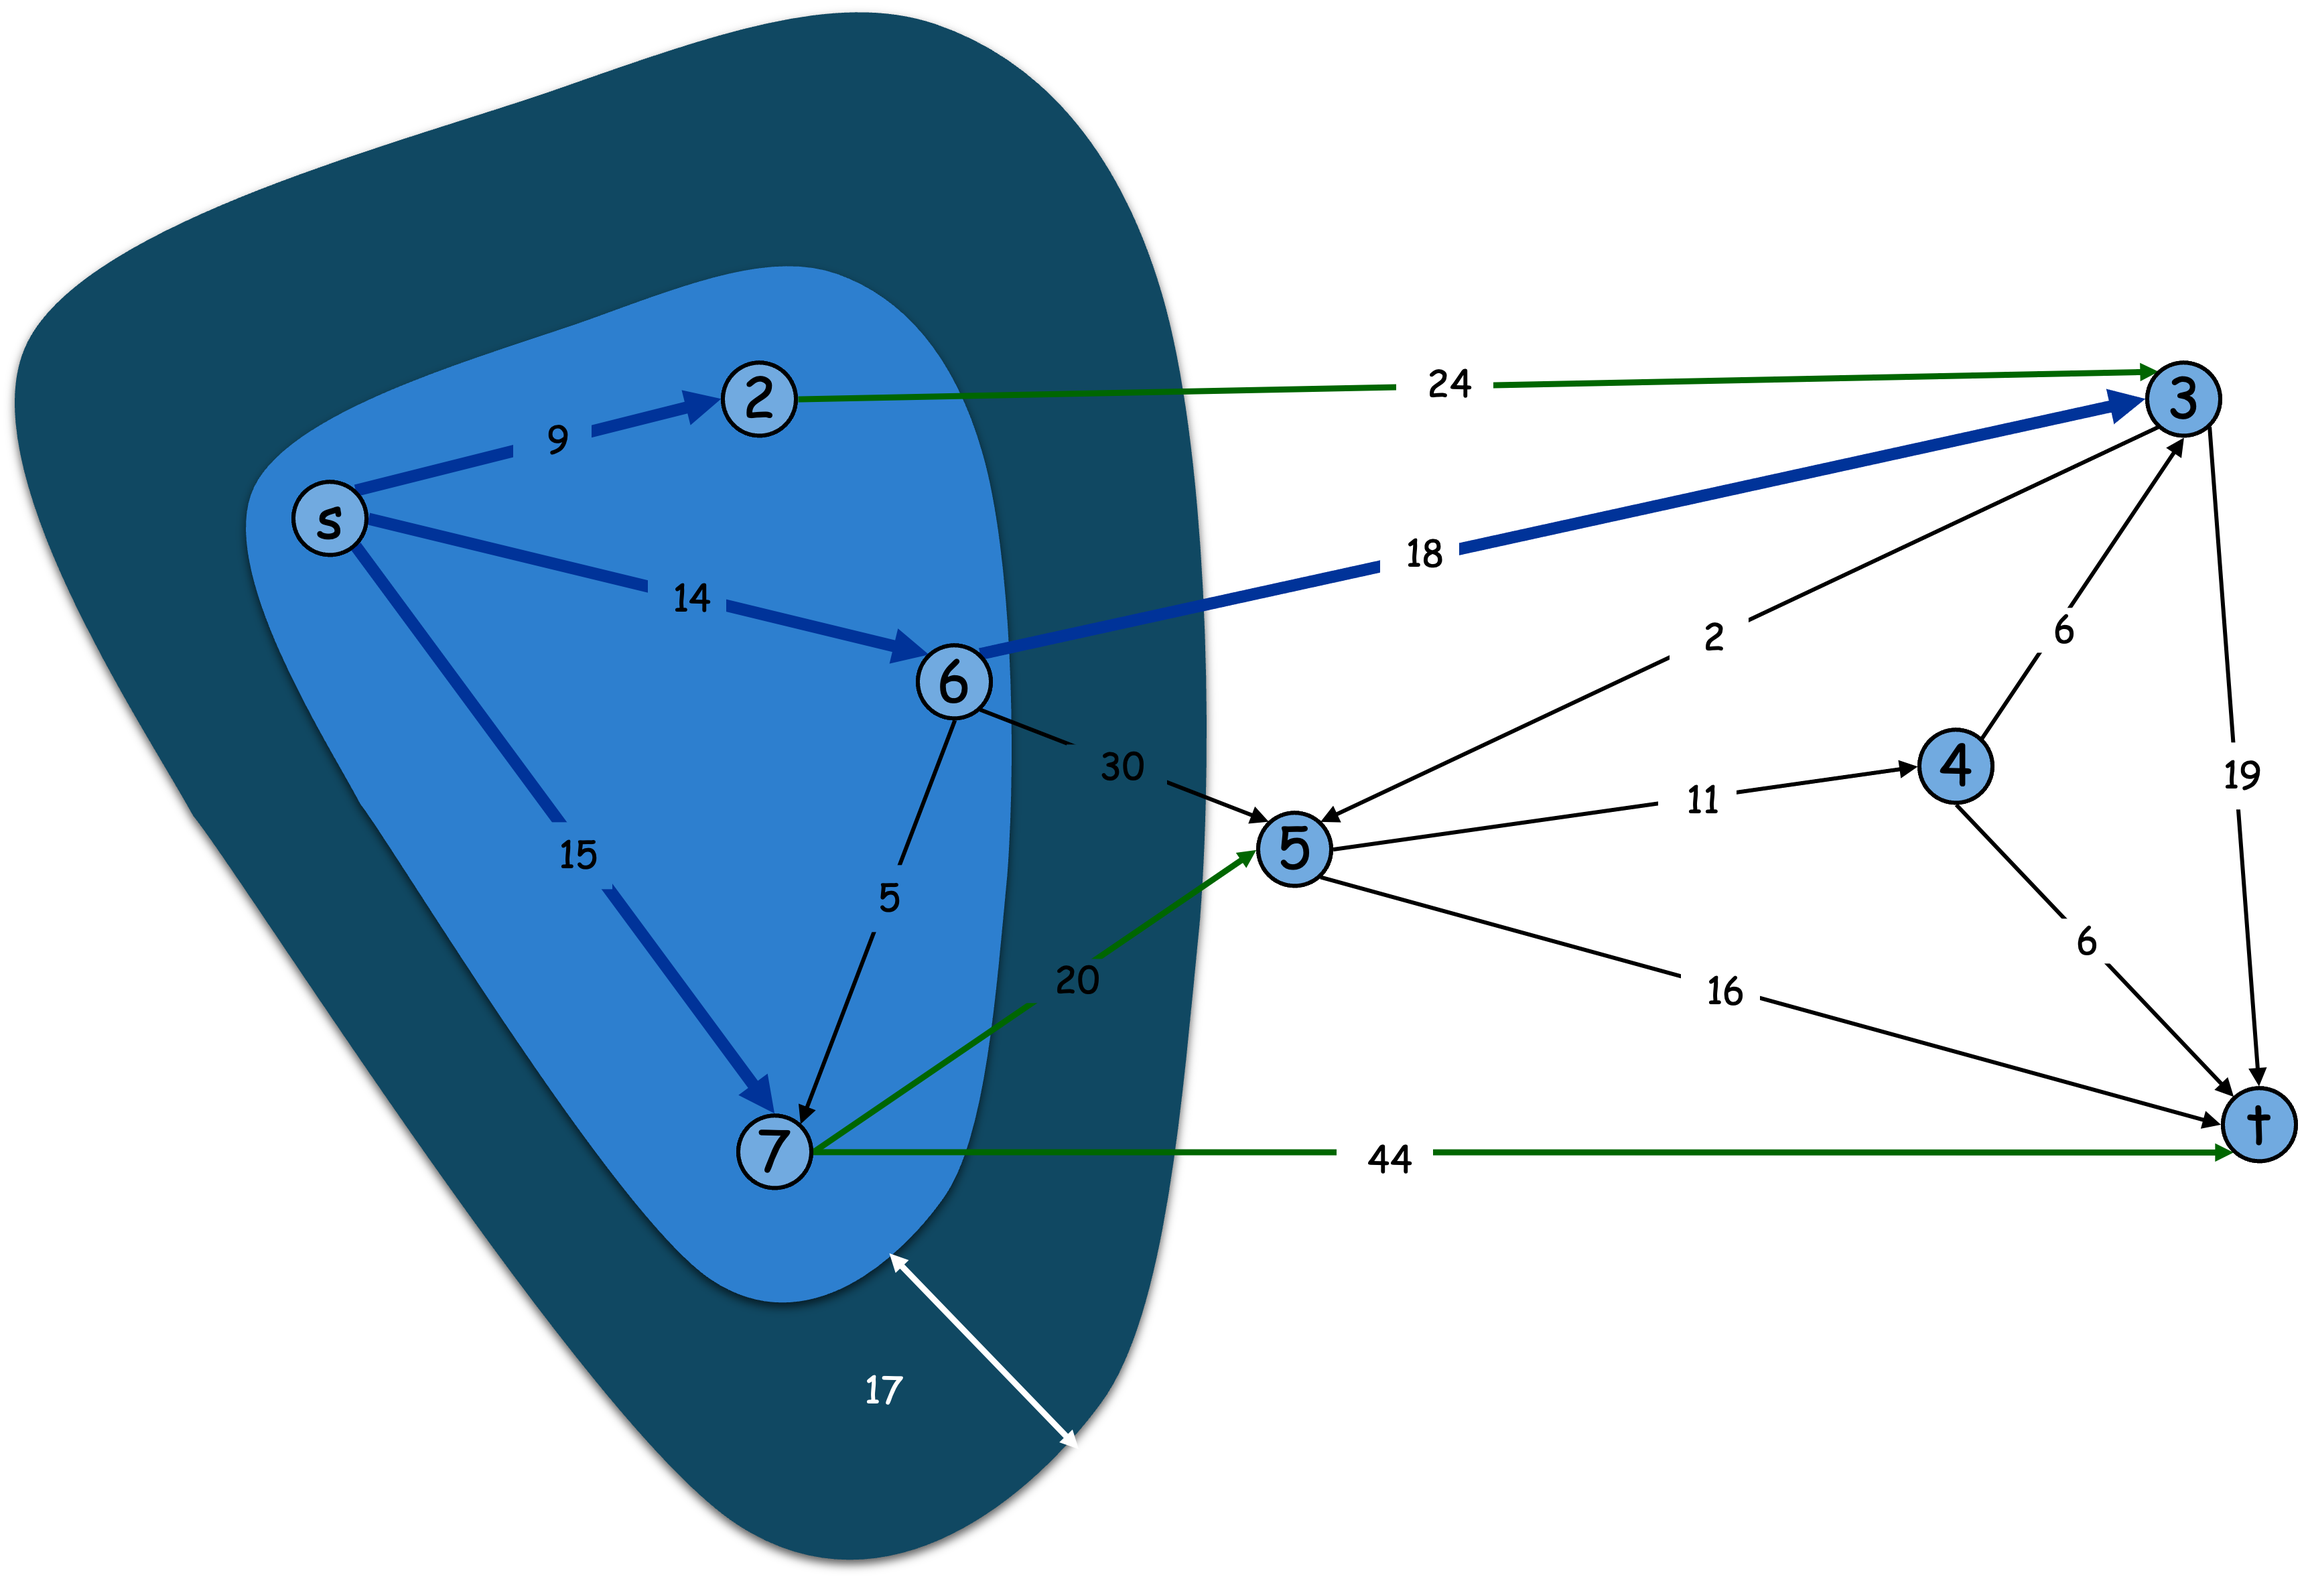
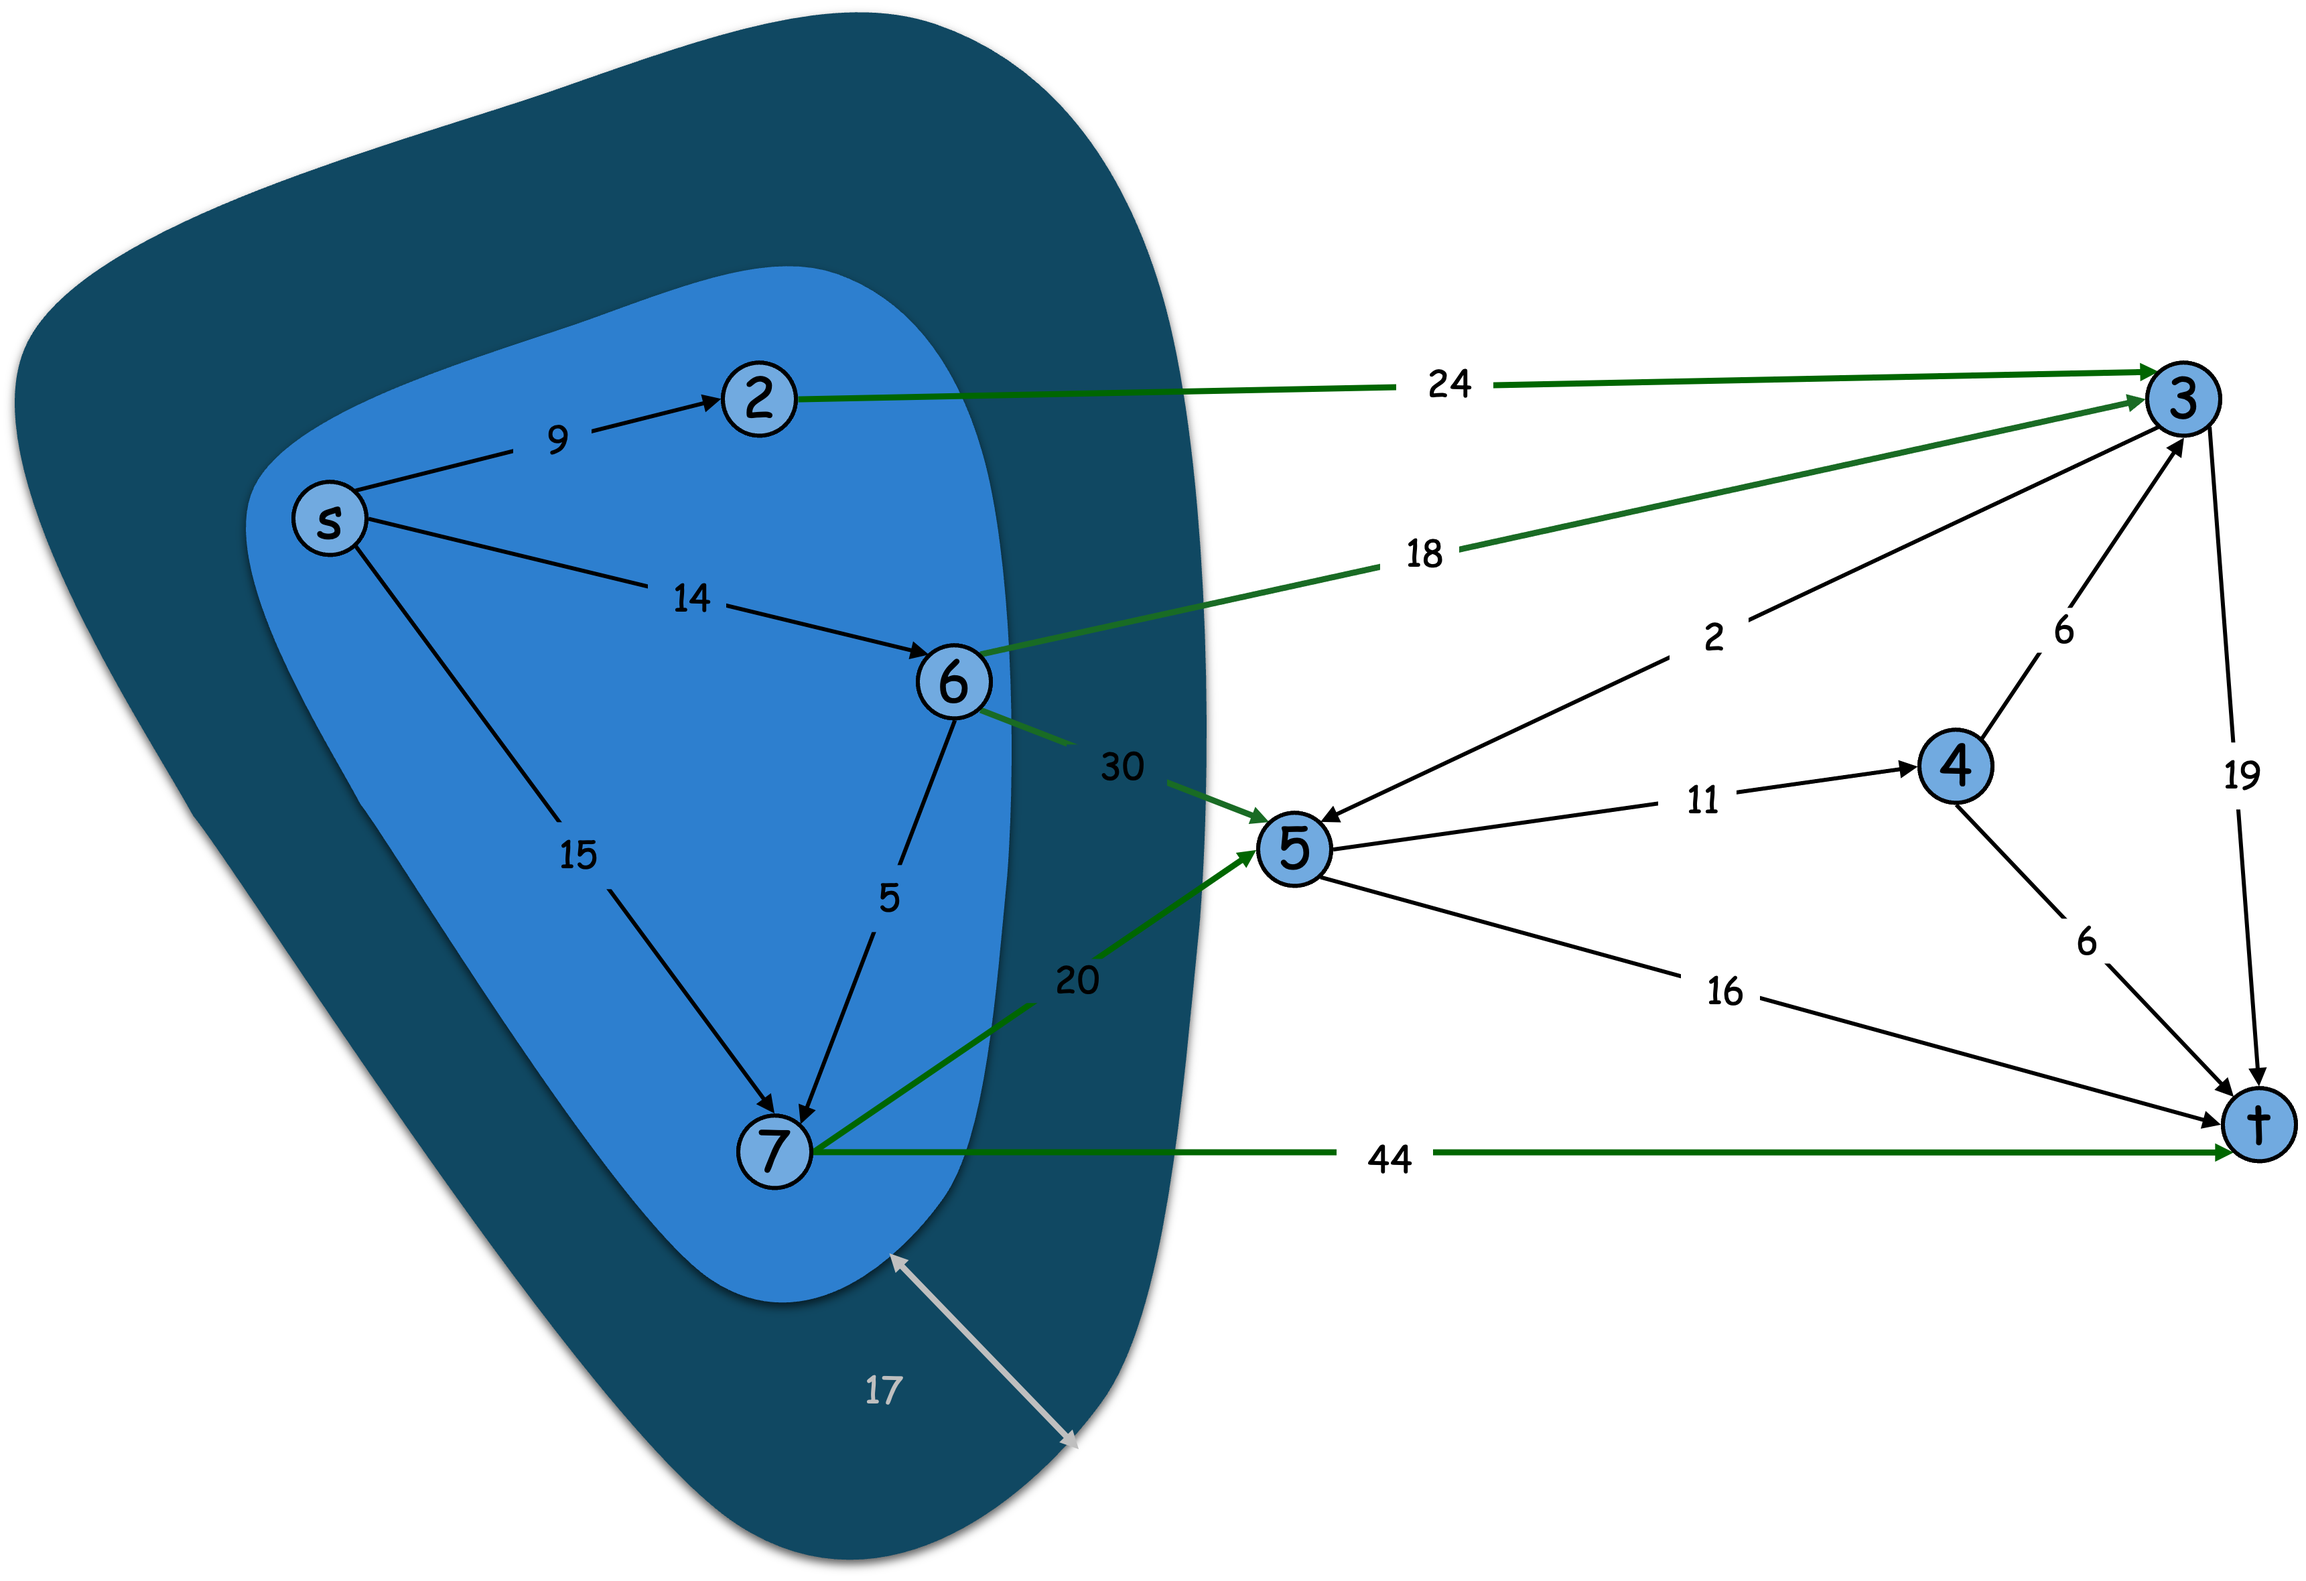
Added illustrations of moats

diff --git a/pd-shortest-paths.md b/pd-shortest-paths.md
@@ -35,13 +35,45 @@ $$\begin{align*}
 \end{align*}$$
 
 $$\begin{align*}
+\label{w10-moat-packing-dual}
 \text{maximize} \quad & \sum_{S \in \mathcal{C}} y_S\\
 \text{subject to} \quad & \sum_{S : e \in \delta(S)} y_S \leq c_e && \forall e \in E\\
 & y \geq 0
 \end{align*}$$
 
-Intuitively, we think of the dual as a "moat packing", where we are
-placing a moat around $S$ of width $y_S$.
+(sec-moat-interpretation)=
+
+### Interpretation of Dual
+
+Whenever we derive the dual of an LP, it is useful to try and think of
+an intuitive interpretation and why the dual gives a lower bound on the
+optimal integral solution. In this case, we think of the dual LP
+@w10-moat-packing-dual as a "moat packing", where for each
+$S \in \mathcal{C}$, we are placing a moat around $S$ of width $y_S$.
+
+To get some intuition as to why a feasible dual gives a lower bound on
+the shortest $(s,t)$-path, suppose that we have a feasible dual in which
+exactly one variable is positive, i.e. $y_R > 0$ for some
+$R \in \mathcal{C}$ and $y_S = 0$ for $S \in \mathcal{C}$ where
+$S \neq R$. The value of the dual is exactly $y_R$. Then, the dual
+feasibility constraints imply that $y_R \leq c_e$ for every
+$e \in \delta(R)$, i.e. every edge $e \in \delta(R)$ has cost
+$c_e \geq y_R$. Since every $(s,t)$-path has to cross the $(s,t)$-cut
+$R$ at least once, it has to contain at least one edge of $\delta(R)$
+and thus costs at least $y_R$. Therefore, $y_R$ is indeed a lower bound
+on the cost of the shortest $(s,t)$-path. See @fig-moat-width for an
+illustration.
+
+:::: {figure label=fig-moat-width}
+
+::: {image width=75%} ./moat-width.png
+
+:::
+
+In this example, $R = \{s,2,6,7\}$, $y_R = 17$, and
+$\delta(R) = \{(2,3), (6,3), (6,5),(7,5),(7,t)\}$.
+
+::::
 
 ## Which Dual Variables to Raise?
 
@@ -97,8 +129,12 @@ $v$ to $S$.
 
 :::
 
+::: {aside}
+
 See pages 31 - 48 of [Annotated Slides](./slides-post-w10.pdf) for a
 step-by-step illustration of the algorithm.
+
+:::
 
 Let us now show that $P$ is the shortest path via complementary
 slackness conditions. The primal complementary slackness conditions are:

diff --git a/pd-mst.md b/pd-mst.md
@@ -25,7 +25,8 @@ $$\begin{align*}
 & x \geq 0
 \end{align*}$$
 
-Unfortunately, this LP has an integrality gap of 2.
+Unfortunately, this LP has an integrality gap of 2 ([Tutorial 10
+Exercise 4](#ex-10-4)).
 
 A stronger LP is one that uses partition constraints. Let
 $\Pi = (S_1, \ldots, S_k)$ be a partition of $V$, i.e. the sets $S_i$
@@ -47,6 +48,36 @@ $$\begin{align*}
 \text{subject to} \quad & \sum_{\Pi : e \in \delta(\Pi)} y_\Pi \leq c_e && \forall e \in E\\
 & y \geq 0
 \end{align*}$$
+
+### Interpretation of Dual
+
+Let $\Pi = (S_1, \ldots, S_k)$. Extending on the interpretation of cut
+constraints as a \[\[#sec-moat-interpretation\]\[moat-packing\], the
+dual variable $y_\Pi$ can be thought of as placing a moat of width
+$y_\Pi/2$ around each part $S_i$ of $\Pi$.
+
+To see that a feasible dual $y$ is a lower bound on the cost of the MST,
+suppose that $y_\Pi > 0$ only when $\Pi = \Pi'$ for some $\Pi'$. Then,
+the dual feasibility constraints imply that every edge
+$e \in \delta(\Pi')$ has cost $c_e \geq y_{\Pi'}$. Since a spanning tree
+$T$ has to contain at least $|\Pi'|-1$ edges from $\delta(\Pi')$, the
+spanning tree $T$ has cost at least $(|\Pi'|-1)c_e$. See
+@fig-partition-width for an illustration.
+
+:::: {figure label=fig-partition-width}
+
+::: {image width=75%} ./partition-width.png
+
+:::
+
+In this example, $\Pi' = (\{s,2,6,7\},\{4,5\},\{3,t\})$, $y_{\Pi'} = 16$
+and
+$\delta(\Pi') = \{(2,3), (6,3), (6,5),(7,5),(7,t),(5,t),(5,3),(4,3),(4,t)\}$.
+Every edge in $\delta(\Pi')$ has cost at least $y_{\Pi'}$. Observe that
+the MST has to choose at least $|\Pi'| - 1 = 2$ edges from
+$\delta(\Pi')$ and thus has total cost at least 32.
+
+::::
 
 ## Simultaneous Moat-Growing
 
